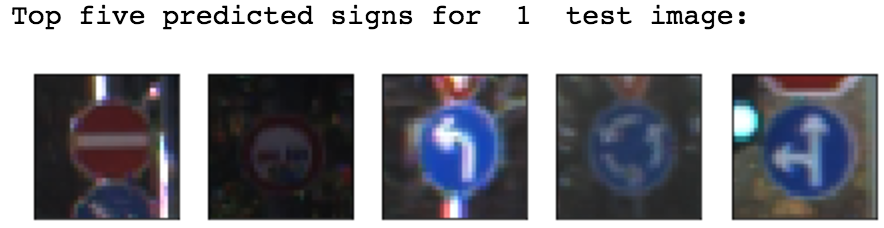
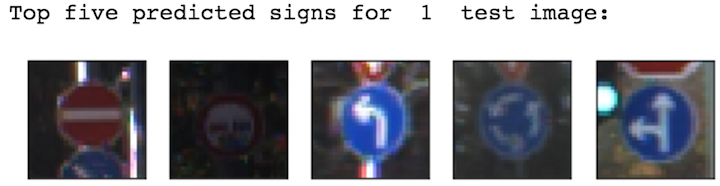
change pic size

diff --git a/writeup_submit.md b/writeup_submit.md
@@ -19,7 +19,7 @@ The goals / steps of this project are the following:
 
 [image1]: ./SingleExample.png "Visualization"
 [image2]: ./ClassDistribution.png "Class Distribution"
-[image3]: ./PreprocessedFiveNewImages.png "Prepocessed Images"
+[image3]: ./PPreprocessedExample.png "Prepocessed Images"
 [image4]: ./TrainValidTestAccuracy.png "Performance"
 [image5]: ./ResizedFiveNewImages.png "Five New Images"
 [image6]: ./PreprocessedFiveNewImages.png "Preprocessed Five New Images"
